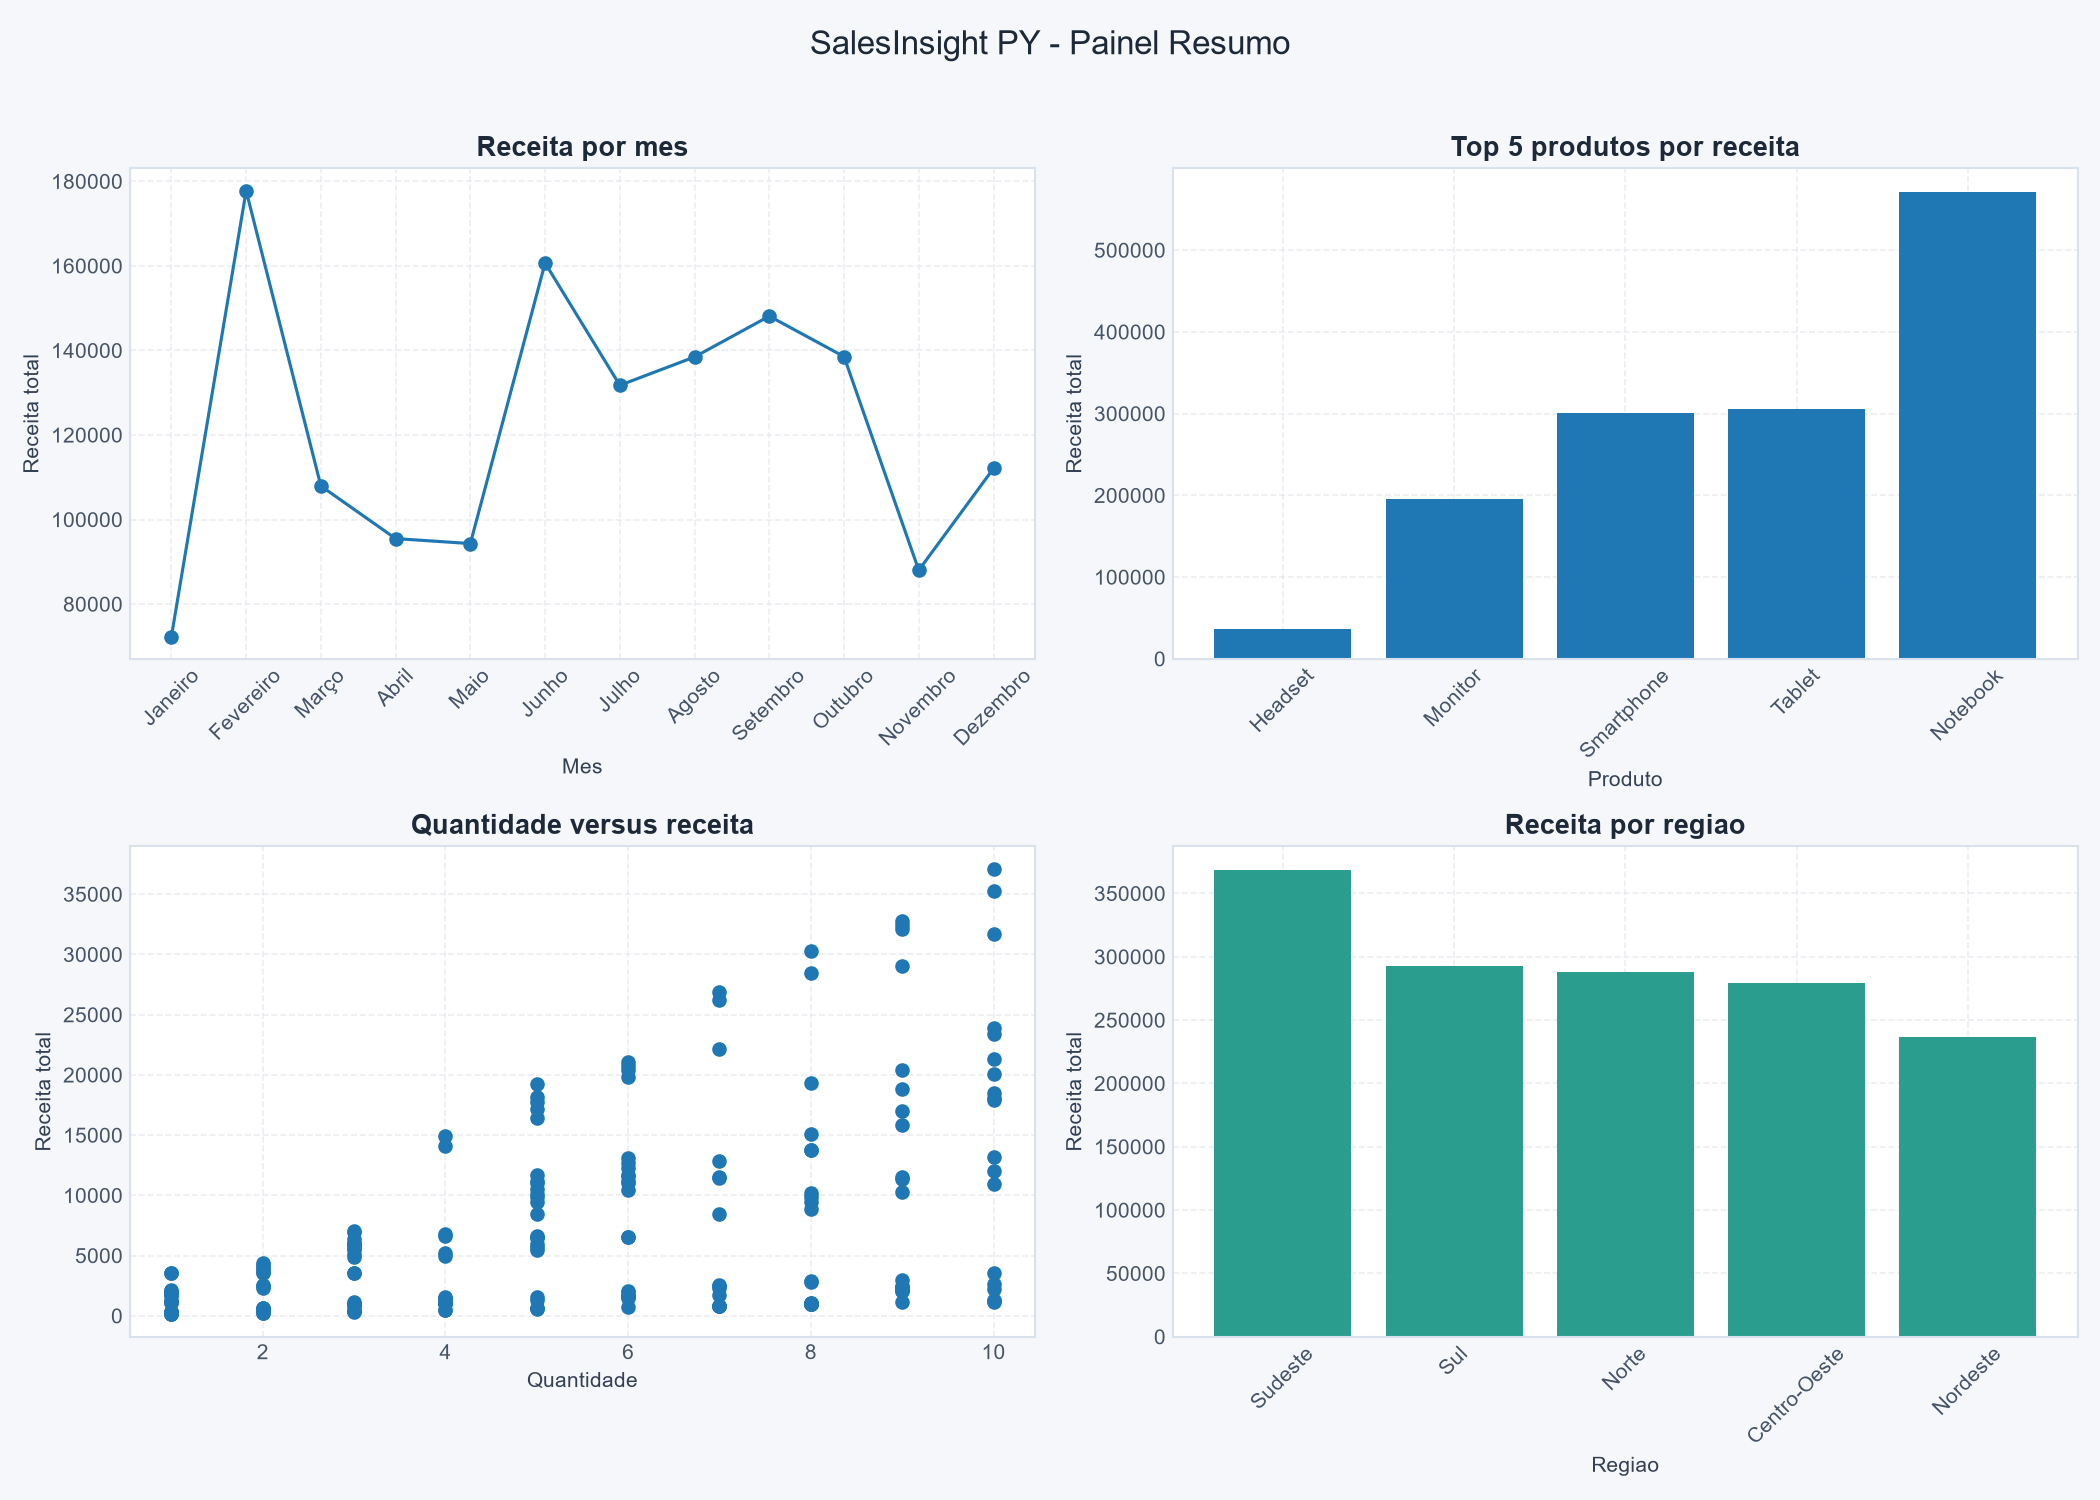
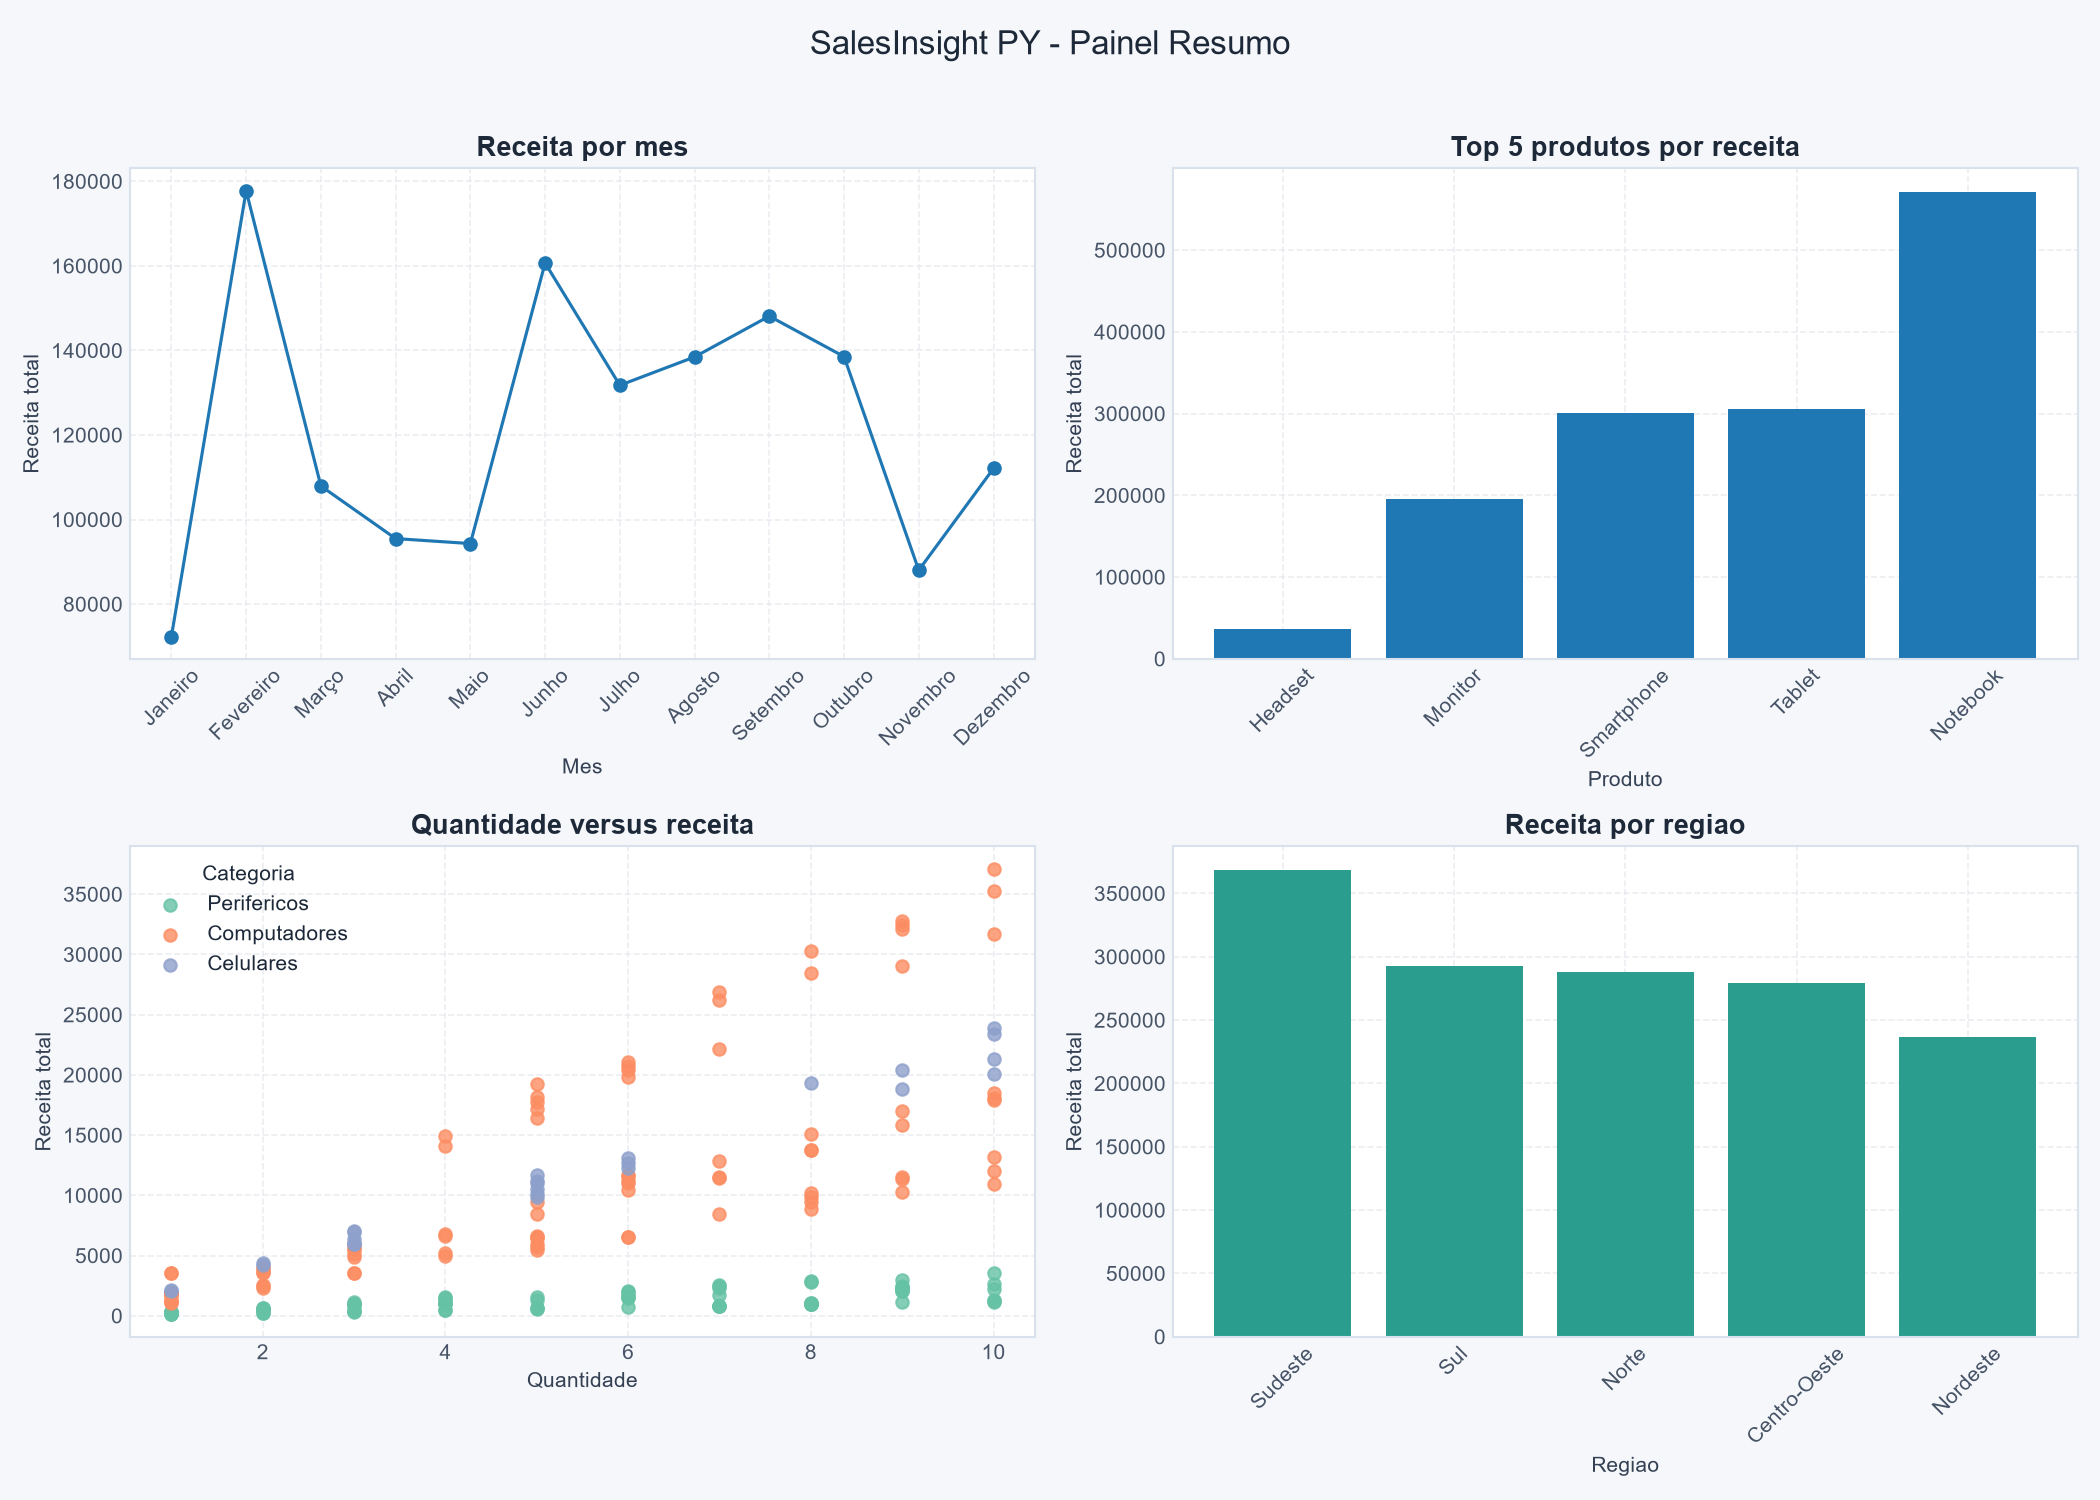
fix: adiciona cores por categoria ao painel resumo

diff --git a/salesinsight.py b/salesinsight.py
@@ -743,10 +743,22 @@ def gerar_graficos_vendas(df_vendas):
     eixos[0, 1].tick_params(axis="x", rotation=45)
 
 
-    eixos[1, 0].scatter(
-        df_vendas["quantidade"],
-        df_vendas["receita_total"],
-    )
+    
+    for indice, categoria in enumerate(categorias):
+        dados_categoria = df_vendas[
+            df_vendas["categoria"] == categoria
+        ]
+
+        eixos[1, 0].scatter(
+            dados_categoria["quantidade"],
+            dados_categoria["receita_total"],
+            color=cores[indice % len(cores)],
+            label=categoria,
+            alpha=0.8,
+        )
+
+    eixos[1, 0].legend(title="Categoria")
+
 
     eixos[1, 0].set_title("Quantidade versus receita")
     eixos[1, 0].set_xlabel("Quantidade")
